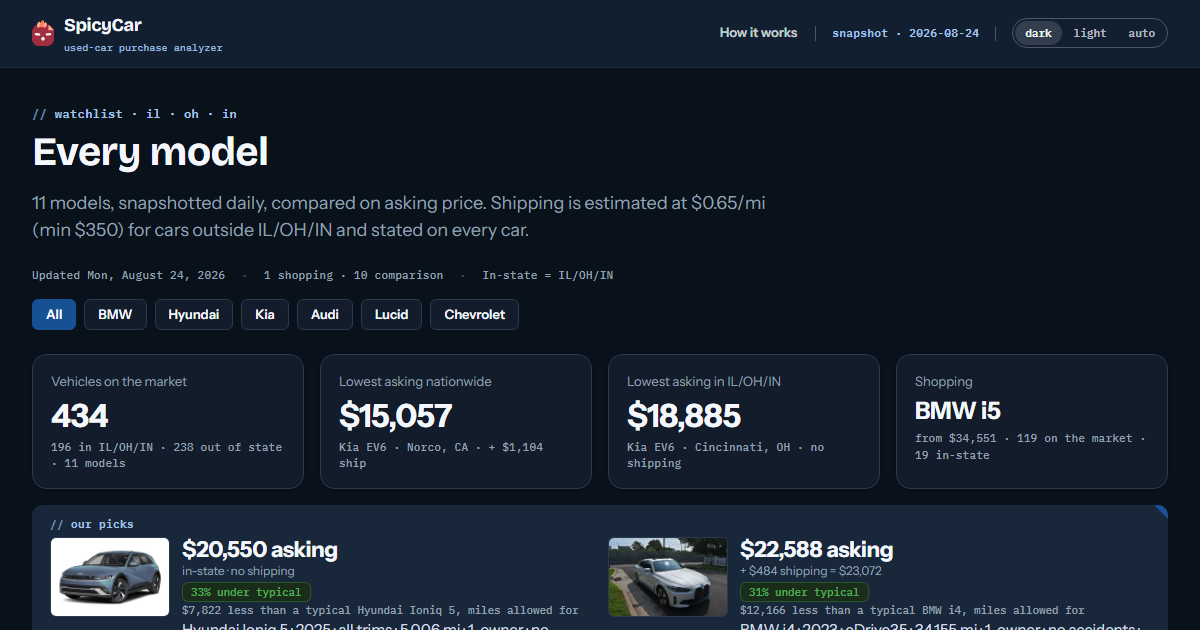
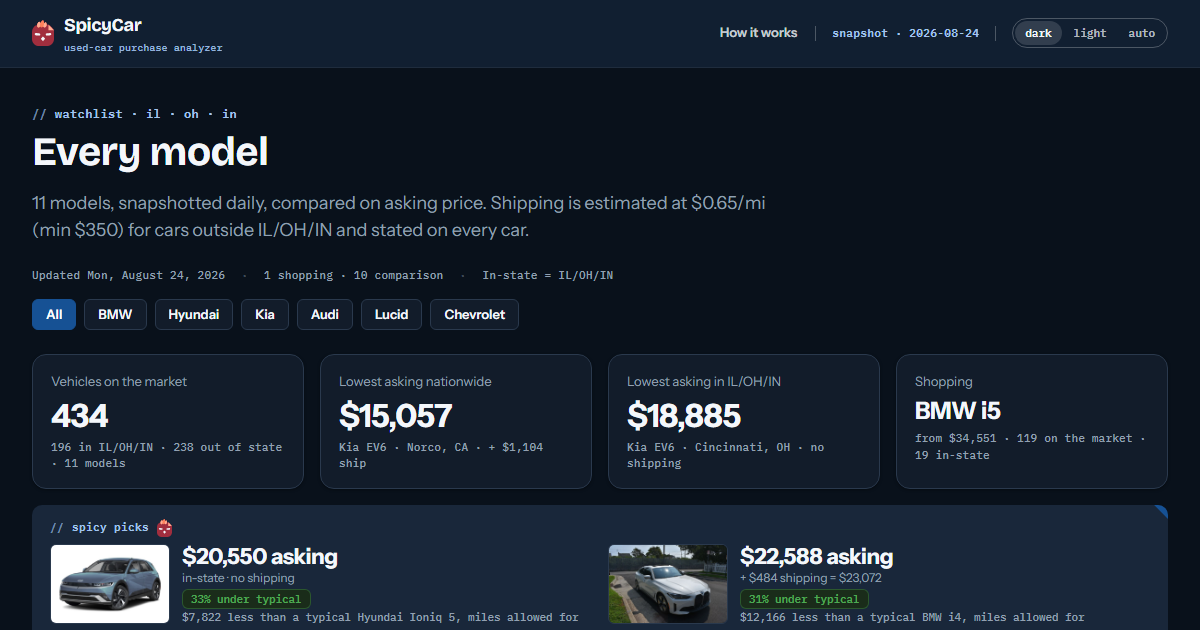
spicy picks, with the chick beside the label and signing the notes card
The picks callout is 'spicy picks' with the SpicyChicken mark inline after the label; the Know-the-model card carries the mark as its sign-off. The mark is chosen per theme (dark-surface form in dark mode, light-surface form in light), unaltered, with clear space, per DESIGN_SYSTEM.md section 9. Report and docs say spicy picks too.

Claude-Session: https://claude.ai/code/session_01DG7bZAsHHRJRPbTw6TmSCs

Changed region(s): [[0.0308, 0.8143, 0.9558, 1.0]]

diff --git a/docs/how.html b/docs/how.html
@@ -82,7 +82,7 @@
       </table>
     </div>
     <p>Car C is still the cheapest by more than $3,000 after the truck — which is the point of stating it. Whether a buyer wants to purchase a car sight-unseen from 1,800 miles is a separate question; the number just makes the trade-off visible.</p>
-    <p><strong>Our picks</strong> are the one place miles are priced in — but only to rank, never to change a number you see. A car is eligible under 50,000 miles with no reported accidents and no rental or fleet history. Each eligible car gets a value: asking, plus shipping, plus 30 cents for every mile above 20,000 (or minus, below). It is then compared with the typical value for its own model, so a cheap model does not win just for being cheap; the picks are the cars furthest under typical, and the label says by how much. The price on the card is still the asking price.</p>
+    <p><strong>Spicy picks</strong> are the one place miles are priced in — but only to rank, never to change a number you see. A car is eligible under 50,000 miles with no reported accidents and no rental or fleet history. Each eligible car gets a value: asking, plus shipping, plus 30 cents for every mile above 20,000 (or minus, below). It is then compared with the typical value for its own model, so a cheap model does not win just for being cheap; the picks are the cars furthest under typical, and the label says by how much. The price on the card is still the asking price.</p>
 
     <h2 id="data">Where the data comes from</h2>
     <p>Listings come from the <a href="https://auto.dev" rel="noopener">auto.dev</a> API. Every day at 11:00 UTC a GitHub Action runs the tracker, which fetches each target due that day, states shipping on every listing, and writes three things back into the repository: a CSV with one row per vehicle per day, a Markdown report (also sent by email), and the JSON behind the dashboard.</p>
@@ -115,7 +115,7 @@
     <ul>
       <li><strong>Every model</strong> — the front page: one row per model with a photo, cars on the market, in-state count, lowest asking nationwide, lowest asking in-state, the median and a trend line, all under the same filters. Shopping first, then by price.</li>
       <li><strong>Every model over time</strong> — one line per model, lowest asking price by day. The model being shopped is in colour; the rest are context, each named at its line's end.</li>
-      <li><strong>Our picks</strong> — four cars, on the front page across every model and on each model within it: photo, asking price, the shipping line, and how far under typical the car sits. Recomputed as you filter.</li>
+      <li><strong>Spicy picks</strong> — four cars, on the front page across every model and on each model within it: photo, asking price, the shipping line, and how far under typical the car sits. Recomputed as you filter.</li>
       <li><strong>Know the model</strong> — on every model page: the good, the bad, and what to check before you go and look. Written by hand and kept in the config, so it can be corrected as we learn.</li>
       <li><strong>Listings</strong> — one row per VIN with photo, asking, miles, the shipping estimate, asking plus shipping, history flags (rental and fleet cars are marked), distance from home, days on market, and a price sparkline. Filter by trim, state, year and miles, hide accidents, hide rentals and fleet; sort by asking, asking plus shipping, miles, biggest drop, longest on market, or newest.</li>
       <li><strong>Gone from the market</strong> — with the out-of-window flag described above.</li>

diff --git a/docs/index.html b/docs/index.html
@@ -36,6 +36,8 @@
   .takeaway-col .sc-media { align-items: flex-start; }
   .takeaway-col .sc-media__body > :last-child { margin-bottom: 0; }
   .picks-grid { grid-template-columns: repeat(auto-fit, minmax(min(440px, 100%), 1fr)); }   /* two picks per row on a desktop, one on a phone */
+  .with-mark { display: flex; align-items: center; gap: 8px; }        /* a label or card head that carries the chick beside its text */
+  .with-mark img.sc-mark { height: 18px; }
   #notes-grid ul { margin: 0; padding-left: 18px; }
   #notes-grid li { margin-top: 6px; font-size: 14px; }
 </style>
@@ -83,6 +85,7 @@
         <h2 id="notes-title">Know the model</h2>
         <p class="sc-hint">The good, the bad, and what to check before you go and look. Written by hand, not by the tracker.</p>
       </div>
+      <div class="with-mark" id="notes-mark"></div>
     </div>
     <div class="sc-grid sc-grid--3" id="notes-grid"></div>
   </section>
@@ -231,6 +234,10 @@
     return a.length % 2 ? a[m] : (a[m - 1] + a[m]) / 2;
   };
   const isLocal = (x) => !!x.local;
+  // The chick, in the form the surface calls for: the dark-surface form in dark mode, the light-surface form in light.
+  const ASSETS = 'https://cdn.jsdelivr.net/gh/spicyChicken59/design-system@v2.1.0/assets/';
+  const isLightTheme = () => root.getAttribute('data-theme') === 'light' || (!root.getAttribute('data-theme') && window.matchMedia('(prefers-color-scheme: light)').matches);
+  const markImg = () => el('img', { class: 'sc-mark', src: ASSETS + (isLightTheme() ? 'sc-mark-color-light.svg' : 'sc-mark-color-dark.svg'), alt: '' });
   const hasPrice = (x) => x.price !== null && x.price !== undefined;
   // Asking plus the stated shipping estimate — never less than asking. Computed here so it never depends on the data's vintage.
   const landed = (x) => (hasPrice(x) ? x.price + (x.local ? 0 : (x.ship || 0)) : null);
@@ -539,12 +546,12 @@
       el('span', { class: 'sc-note' }, `${money(p.under)} less than a typical ${p.modelLabel}, miles allowed for`),
       para)));
   }
-  // Our picks, under the current filters — on the front page across every model, on a model view within it.
+  // Spicy picks, under the current filters — on the front page across every model, on a model view within it.
   function renderPicks(picks) {
     const host = $('takeaway'); host.textContent = '';
     if (!picks.length) { host.hidden = true; return; }
     host.appendChild(el('div', { class: 'sc-callout sc-callout--core' },
-      el('div', { class: 'sc-callout__label' }, 'our picks'),
+      el('div', { class: 'sc-callout__label with-mark' }, 'spicy picks', markImg()),
       el('div', { class: 'sc-grid picks-grid' }, ...picks.map(pickCard)),
       el('p', { class: 'sc-hint' }, picksRule())));
     host.hidden = false;
@@ -554,6 +561,7 @@
     const cols = [['good', 'The good'], ['bad', 'The bad'], ['watch', 'Watch out for']].filter(([k]) => Array.isArray(n[k]) && n[k].length);
     if (!cols.length) { card.hidden = true; return; }
     $('notes-title').textContent = `Know the ${t.label}`;
+    const sign = $('notes-mark'); sign.textContent = ''; sign.appendChild(markImg());
     const grid = $('notes-grid'); grid.textContent = '';
     for (const [k, label] of cols) grid.appendChild(el('div', null, el('div', { class: 'sc-eyebrow' }, label), el('ul', null, ...n[k].map((s) => el('li', null, s)))));
     card.hidden = false;

diff --git a/Tracking.py b/Tracking.py
@@ -425,7 +425,7 @@ def fmt_pick(p):
                 (f"+ {money(to_int(p['ship']))} shipping" if to_int(p.get("ship")) else "shipping n/a"))
     bits.append(f"{p.get('city', '')}, {p.get('state', '')}")
     line = "- " + " · ".join(b for b in bits if b)
-    line += (f"\n  _our pick: {p['pick_pct']:.0%} under typical for a {p['model_label']} "
+    line += (f"\n  _spicy pick: {p['pick_pct']:.0%} under typical for a {p['model_label']} "
              f"({money(p['pick_under'])} less)_")
     if p.get("flags"):
         line += f" · _{' · '.join(p['flags'])}_"
@@ -1033,7 +1033,7 @@ def build_outputs(today_rows, all_rows, hist):
             sec += brief_lines(m_entry, m_entry["listings"], prev_day) + [""]
             picks = choose_picks(scored, PICKS.get("count", 4))
             if picks:
-                sec += [f"**Our picks** — {picks_rule()}", ""]
+                sec += [f"**Spicy picks** — {picks_rule()}", ""]
                 sec += [fmt_pick(p) for p in picks] + [""]
             counts = Counter(x["state"] for x in listings if x["local"])
             n_out = sum(1 for x in listings if not x["local"])
@@ -1053,7 +1053,7 @@ def build_outputs(today_rows, all_rows, hist):
     report = [f"# {APP} — {TODAY}", ""] + full
     top = choose_picks(all_scored, PICKS.get("count", 4), PICKS.get("per_model", 2))
     if top:
-        report += ["## Our picks across the watchlist", "",
+        report += ["## Spicy picks across the watchlist", "",
                    f"_{picks_rule()}. Asking prices shown._", ""]
         report += [fmt_pick(p) for p in top] + [""]
     if compact:

diff --git a/README.md b/README.md
@@ -95,7 +95,7 @@ step · [SpicyChicken design system](https://github.com/spicyChicken59/design-sy
   every in-state listing grouped by state, and the five best-value cars out of state.
 - The dashboard — opens on every model at once: a photo per model, lowest asking nationwide and
   in-state, median, a trend line, one chart with every model's lowest asking price over time, and
-  **our picks** — four cars ranked by value (miles allowed for, shipping stated) but shown at asking
+  **spicy picks** — four cars ranked by value (miles allowed for, shipping stated) but shown at asking
   price. Then brand and model tabs; on every model, its own picks, a hand-written *know the model*
   card (the good, the bad, what to check); trim, state, year and mileage filters plus hide-accidents
   and hide-rentals; lowest and median asking price over time; one row per vehicle with photo, history flags (CPO, owners, accidents,
@@ -127,7 +127,7 @@ Locally: `AUTODEV_API_KEY=… python Tracking.py`. To preview the dashboard, ser
 | `ship_cost` | Flat shipping, used when distance is unknown or `ship_per_mile` is off. |
 | `cents_per_mile`, `mileage_baseline` | Optional mileage adjustment, **off by default (`0`)**. Turning it on prices miles into the "asking + shipping" figure, which can then fall below asking — miles are shown instead. |
 | `shopping` | Target ids being shopped (e.g. `bmw-i5-edrive40`). They lead the report in full; every other model is a one-line comparison. |
-| `picks` | How "our picks" are chosen: `count`, `per_model` (cap on the front page), `max_miles`, `cents_per_mile` + `mileage_baseline` (the allowance used only to rank), `exclude_accidents`, `exclude_rental`. Picks are scored against the typical value of their own model and shown at asking price. |
+| `picks` | How the spicy picks are chosen: `count`, `per_model` (cap on the front page), `max_miles`, `cents_per_mile` + `mileage_baseline` (the allowance used only to rank), `exclude_accidents`, `exclude_rental`. Picks are scored against the typical value of their own model and shown at asking price. |
 
 ### watchlist
 
